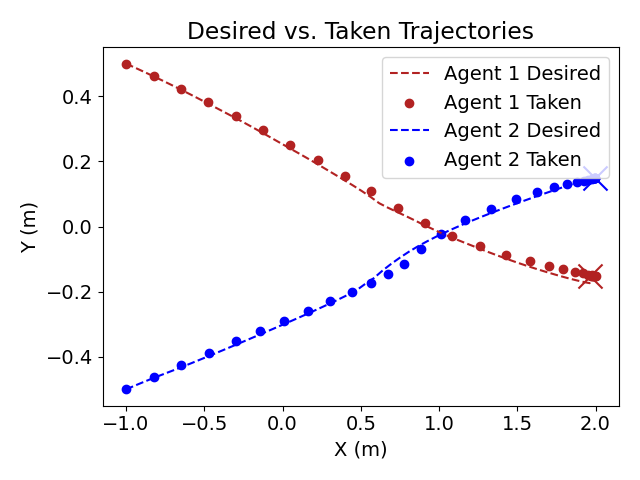
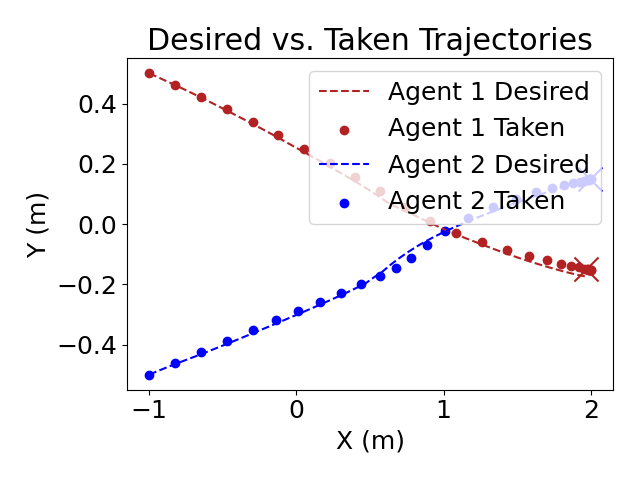
Regenerate plots

diff --git a/generate_plots.py b/generate_plots.py
@@ -7,13 +7,13 @@ from util import get_ray_intersection_point
 import matplotlib.pyplot as plt
 import matplotlib
 
-matplotlib.rcParams.update({'font.size': 14})
+matplotlib.rcParams.update({'font.size': 18})
 
 COLORS = ['firebrick', 'blue', 'magenta']
 LIGHT_COLORS = ['sandybrown', 'cornflowerblue']
 
-# SCENARIO = 'Doorway'
-SCENARIO = 'Intersection'
+SCENARIO = 'Doorway'
+# SCENARIO = 'Intersection'
 
 RUN_AGENT = 'MPC'
 # RUN_AGENT = 'LiveNet'
@@ -44,25 +44,42 @@ def gen_figure(ys, title, labels, ylabel, filesuffix, ylims=None, add_dotted=Non
     global figcount
     plt.figure(figcount)
     figcount += 1
+    linewidth = 3.0
     plt.title(title)
     for i, (y, label) in enumerate(zip(ys, labels)):
         if verticalline is None:
             plt.plot(y, label = label, color=COLORS[i])
         else:
             break_val = verticalline[0]
-            plt.plot(y[:break_val + 1], label = label + " Before Cross", color=LIGHT_COLORS[i], linestyle='--', linewidth=2.0)
-            plt.plot([None] * break_val + y[break_val:], label = label + " After Cross", color=COLORS[i], linewidth=2.0)
+            # plt.plot(y[:break_val + 1], label = label + " Pre-Cross", color=LIGHT_COLORS[i], linestyle='--', linewidth=2.0)
+            # plt.plot([None] * break_val + y[break_val:], label = label + " Post-Cross", color=COLORS[i], linewidth=2.0)
+            plt.plot(y[:break_val + 1], label = label + " Before", color=LIGHT_COLORS[i], linestyle='--', linewidth=linewidth)
+            plt.plot([None] * break_val + y[break_val:], label = label + " After", color=COLORS[i], linewidth=linewidth)
+
+    # break_val = verticalline[0]
+    # y, label = ys[0], labels[0]
+    # plt.plot(y[:break_val + 1], label = label + " Pre-Cross", color=LIGHT_COLORS[i], linestyle='--', linewidth=2.0)
+    # plt.plot([None] * break_val + y[break_val:], label = label + " Post-Cross", color=COLORS[i], linewidth=2.0)
+    # plt.plot(y[:break_val + 1], label = label + " Before", color=LIGHT_COLORS[0], linestyle='--', linewidth=linewidth)
+    # plt.plot([None] * break_val + y[break_val:], label = label + " After", color=COLORS[0], linewidth=linewidth)
+
+    # y, label = ys[1], labels[1]
+
+    # plt.plot(y[:break_val + 1], label = label + " Before", color=LIGHT_COLORS[1], linestyle='--', linewidth=linewidth)
+
 
     if verticalline is not None:
         break_val = verticalline[0]
-        plt.axvline(x=break_val, color='k', linestyle='--', linewidth=2.0, label="Crossing Point")
+        plt.axvline(x=break_val, color='k', linestyle='--', linewidth=linewidth, label="Doorway")
+
+    # plt.plot([None] * break_val + y[break_val:], label = label + " After", color=COLORS[1], linewidth=linewidth)
 
     if ylims is not None:
         plt.ylim(ylims)
 
     if add_dotted is not None:
         val, label = add_dotted
-        plt.plot([val if i is not None else None for i in ys[0]], label=label, linestyle='--', color='red')
+        plt.plot([val if i is not None else None for i in ys[0]], label=label, linewidth=linewidth, linestyle='--', color='red')
 
     # if verticalline is not None:
         # val, label = verticalline
@@ -75,7 +92,12 @@ def gen_figure(ys, title, labels, ylabel, filesuffix, ylims=None, add_dotted=Non
 
     plt.ylabel(ylabel)
     plt.xlabel('Iteration')
-    plt.legend(loc='upper right', prop={'size': 12})
+    print(plt.gcf().get_size_inches())
+    # plt.gcf().set_size_inches(7.2, 4.8)
+    print(plt.gcf().get_dpi())
+    plt.gcf().set_dpi(300)
+    # plt.legend(bbox_to_anchor=(0.0, 1.0), loc='lower left', prop={'size': 15}, ncol=3, columnspacing=1.0)
+    plt.legend(loc='lower left', prop={'size': 15})
     plt.tight_layout()
 
     plt.savefig(f'experiment_results/histories/{RUN_AGENT}_{SCENARIO}_{filesuffix}.png')
@@ -141,7 +163,7 @@ liveness_ylim = 0.6 if SCENARIO == "Doorway" else 5.0
 
 # first_name = "Faster" if first_reached_goal < second_reached_goal else "Slower"
 # second_name = "Slower" if first_reached_goal < second_reached_goal else "Faster"
-gen_figure([vels_0, vels_1], "Agent Velocity", [f'Agent 1', f'Agent 2'], "Agent Velocity (m/s)", "velocities", verticalline=(liveness_last_idx, "Last Intersecting Trajectories"))
+gen_figure([vels_0, vels_1], "Agent Velocity", [f'A1', f'A2'], "Agent Velocity (m/s)", "velocities", verticalline=(liveness_last_idx, "Last Intersecting Trajectories"))
 gen_figure([obs_dist_vals_0, obs_dist_vals_1, opp_dist_vals], "Distance CBF Violation", [f'Agent 1 Static Obstacle Distance', f'Agent 2 Static Obstacle Distance', 'Inter-Agent Distance'],  "Distance (m)", "distance_cbf", add_dotted=(0, 'CBF Boundary'), ylims=[-0.2, np.max([obs_dist_vals_0, obs_dist_vals_1, opp_dist_vals])])
 gen_figure([liveness_cbf_vals], "Liveness CBF Violation", [f'Agent Liveness'],  "Liveness (s)", "liveness_cbf", add_dotted=(0, 'CBF Boundary'), ylims=[-0.2, liveness_ylim])
 gen_traj_plot([desired0, desired1], [traj0, traj1], [f"Agent 1", f"Agent 2"], "Desired vs. Taken Trajectories", "desired")

diff --git a/reprocess_results.py b/reprocess_results.py
@@ -1,0 +1,78 @@
+import config
+import numpy as np
+from metrics import check_when_reached_goal
+from data_logger import DataLogger
+from util import get_ray_intersection_point
+from metrics import calculate_avg_delta_vel, calculate_path_deviation
+
+# SCENARIO = 'Doorway'
+SCENARIO = 'Intersection'
+
+RUN_AGENT = 'MPC'
+# RUN_AGENT = 'LiveNet'
+# RUN_AGENT = 'BarrierNet'
+# RUN_AGENT = 'MPC_UNLIVE'
+
+def get_liveness_cbf(ego_state, opp_state, is_faster):
+    center_intersection = get_ray_intersection_point(ego_state[:2], ego_state[2], opp_state[:2], opp_state[2])
+    vec_to_opp = opp_state[:2] - ego_state[:2]
+    unit_vec_to_opp = vec_to_opp / np.linalg.norm(vec_to_opp)
+    initial_closest_to_opp = ego_state[:2] + unit_vec_to_opp * (config.agent_radius)
+    opp_closest_to_initial = opp_state[:2] - unit_vec_to_opp * (config.agent_radius)
+    intersection = get_ray_intersection_point(initial_closest_to_opp, ego_state[2], opp_closest_to_initial, opp_state[2])
+    if center_intersection is None or intersection is None or ego_state[3] == 0 or opp_state[3] == 0:
+        return None
+
+    d0 = np.linalg.norm(initial_closest_to_opp - intersection)
+    d1 = np.linalg.norm(opp_closest_to_initial - intersection)
+
+    if is_faster: # Ego agent is faster
+        barrier = d1 / opp_state[3] - d0 / ego_state[3]
+    else: # Ego agent is slower
+        barrier = d0 / ego_state[3] - d1 / opp_state[3]
+    return barrier
+
+
+filename = f'experiment_results/histories/{RUN_AGENT}_{SCENARIO}.json'
+logger = DataLogger.load_file(filename)
+
+logger0 = DataLogger.load_file(f"experiment_results/desired_paths/{SCENARIO}_{RUN_AGENT}_0.json")
+desired0 = np.array([iteration['states'][0] for iteration in logger0.data['iterations']])
+logger1 = DataLogger.load_file(f"experiment_results/desired_paths/{SCENARIO}_{RUN_AGENT}_1.json")
+desired1 = np.array([iteration['states'][1] for iteration in logger1.data['iterations']])
+
+traj0 = np.array([iteration['states'][0] for iteration in logger.data['iterations']])
+traj1 = np.array([iteration['states'][1] for iteration in logger.data['iterations']])
+
+first_reached_goal = check_when_reached_goal(traj0, logger.data['iterations'][0]['goals'][0][:2])
+second_reached_goal = check_when_reached_goal(traj1, logger.data['iterations'][0]['goals'][1][:2])
+
+liveness_cbf_vals = []
+for iteration in logger.data['iterations']:
+    ego_state = np.array(iteration['states'][0])
+    opp_state = np.array(iteration['states'][1])
+    liveness_cbf_vals.append(get_liveness_cbf(ego_state, opp_state, True))
+
+liveness_last_idx = len(liveness_cbf_vals) if None not in liveness_cbf_vals[1:] else liveness_cbf_vals[1:].index(None) + 1
+
+traj0_cropped = traj0[:liveness_last_idx]
+traj1_cropped = traj1[:liveness_last_idx]
+avg_delta_vel0 = calculate_avg_delta_vel(traj0_cropped)
+avg_delta_vel1 = calculate_avg_delta_vel(traj1_cropped)
+avg_delta_vel = (avg_delta_vel0 + avg_delta_vel1) / 2.0
+
+avg_delta_path0 = calculate_path_deviation(traj0_cropped[:, :2], desired0[:, :2])
+avg_delta_path1 = calculate_path_deviation(traj1_cropped[:, :2], desired1[:, :2])
+avg_delta_path = (avg_delta_path0 + avg_delta_path1) / 2.0
+
+
+print(f"Statistics for {RUN_AGENT} on {SCENARIO}")
+print("Last liveness idx:", liveness_last_idx)
+# print("Avg vel 0:", avg_delta_vel0)
+# print("Avg vel 1:", avg_delta_vel1)
+print("Avg vel:", avg_delta_vel)
+# print("Avg path 0:", avg_delta_path0)
+# print("Avg path 1:", avg_delta_path1)
+print("Avg path:", avg_delta_path)
+
+

diff --git a/main.py b/main.py
@@ -19,11 +19,11 @@ from metrics import gather_all_metric_data
 
 # config.liveliness_gamma = 0.1
 # config.runtime = 15.0
-scenario_params = (1.0, 1.0)
-scenario = IntersectionScenario(start=scenario_params[0], goal=scenario_params[1], start_vel=0.0)
+# scenario_params = (1.0, 1.0)
+# scenario = IntersectionScenario(start=scenario_params[0], goal=scenario_params[1], start_vel=0.0)
 
-# scenario_params = (-1.0, 0.5, 2.0, 0.15)
-# scenario = DoorwayScenario(initial_x=scenario_params[0], initial_y=scenario_params[1], goal_x=scenario_params[2], goal_y=scenario_params[3], start_facing_goal=True, initial_vel=0.3)
+scenario_params = (-1.0, 0.5, 2.0, 0.15)
+scenario = DoorwayScenario(initial_x=scenario_params[0], initial_y=scenario_params[1], goal_x=scenario_params[2], goal_y=scenario_params[3], start_facing_goal=True, initial_vel=0.3)
 
 # scenario_params = (-1.0, 0.5, 2.0, 0.15, 0.0, True)
 # scenario_params = (-1.0, 0.4, 2.0, 0.35, 0.0, True)
@@ -49,7 +49,9 @@ controllers = []
 
 # WORKING
 # controllers.append(ModelController("weights/model_30_norm_doorsuite2_lfnew_0_1_bn_definition.json", goals[0], static_obs=scenario.obstacles.copy())) # Doorway livenet
-controllers.append(ModelController("weights/model_30_norm_intersuite2_lfnew_so_ego_0_1_bn_definition.json", goals[0], static_obs=scenario.obstacles.copy())) # Intersection livenet
+# controllers.append(ModelController("weights/model_30_norm_intersuite2_lfnew_so_ego_0_1_bn_definition.json", goals[0], static_obs=scenario.obstacles.copy())) # Intersection livenet
+
+controllers.append(ModelController("weights/model_base_single_input_obs_wc_nolim_saf_suite_0_1_bn_definition.json", goals[0], static_obs=scenario.obstacles.copy())) # Doorway BarrierNet
 
 # controllers.append(ModelController("weights/srikar_iter_5_3opp_od_0_1_bn_definition.json", goals[0], static_obs=scenario.obstacles.copy())) # Intersection livenet
 
@@ -62,7 +64,9 @@ controllers.append(ModelController("weights/model_30_norm_intersuite2_lfnew_so_e
 
 # WORKING
 # controllers.append(ModelController("weights/model_30_norm_doorsuite2_lfnew_0_1_bn_definition.json", goals[1], static_obs=scenario.obstacles.copy())) # Doorway livenet
-controllers.append(ModelController("weights/model_30_norm_intersuite2_lfnew_so_ego_0_1_bn_definition.json", goals[1], static_obs=scenario.obstacles.copy())) # Intersection livenet
+# controllers.append(ModelController("weights/model_30_norm_intersuite2_lfnew_so_ego_0_1_bn_definition.json", goals[1], static_obs=scenario.obstacles.copy())) # Intersection livenet
+
+controllers.append(ModelController("weights/model_base_single_input_obs_wc_nolim_saf_suite_0_1_bn_definition.json", goals[1], static_obs=scenario.obstacles.copy())) # Doorway BarrierNet
 
 # controllers.append(ModelController("weights/srikar_iter_5_3opp_od_0_1_bn_definition.json", goals[1], static_obs=scenario.obstacles.copy())) # Intersection livenet
 
